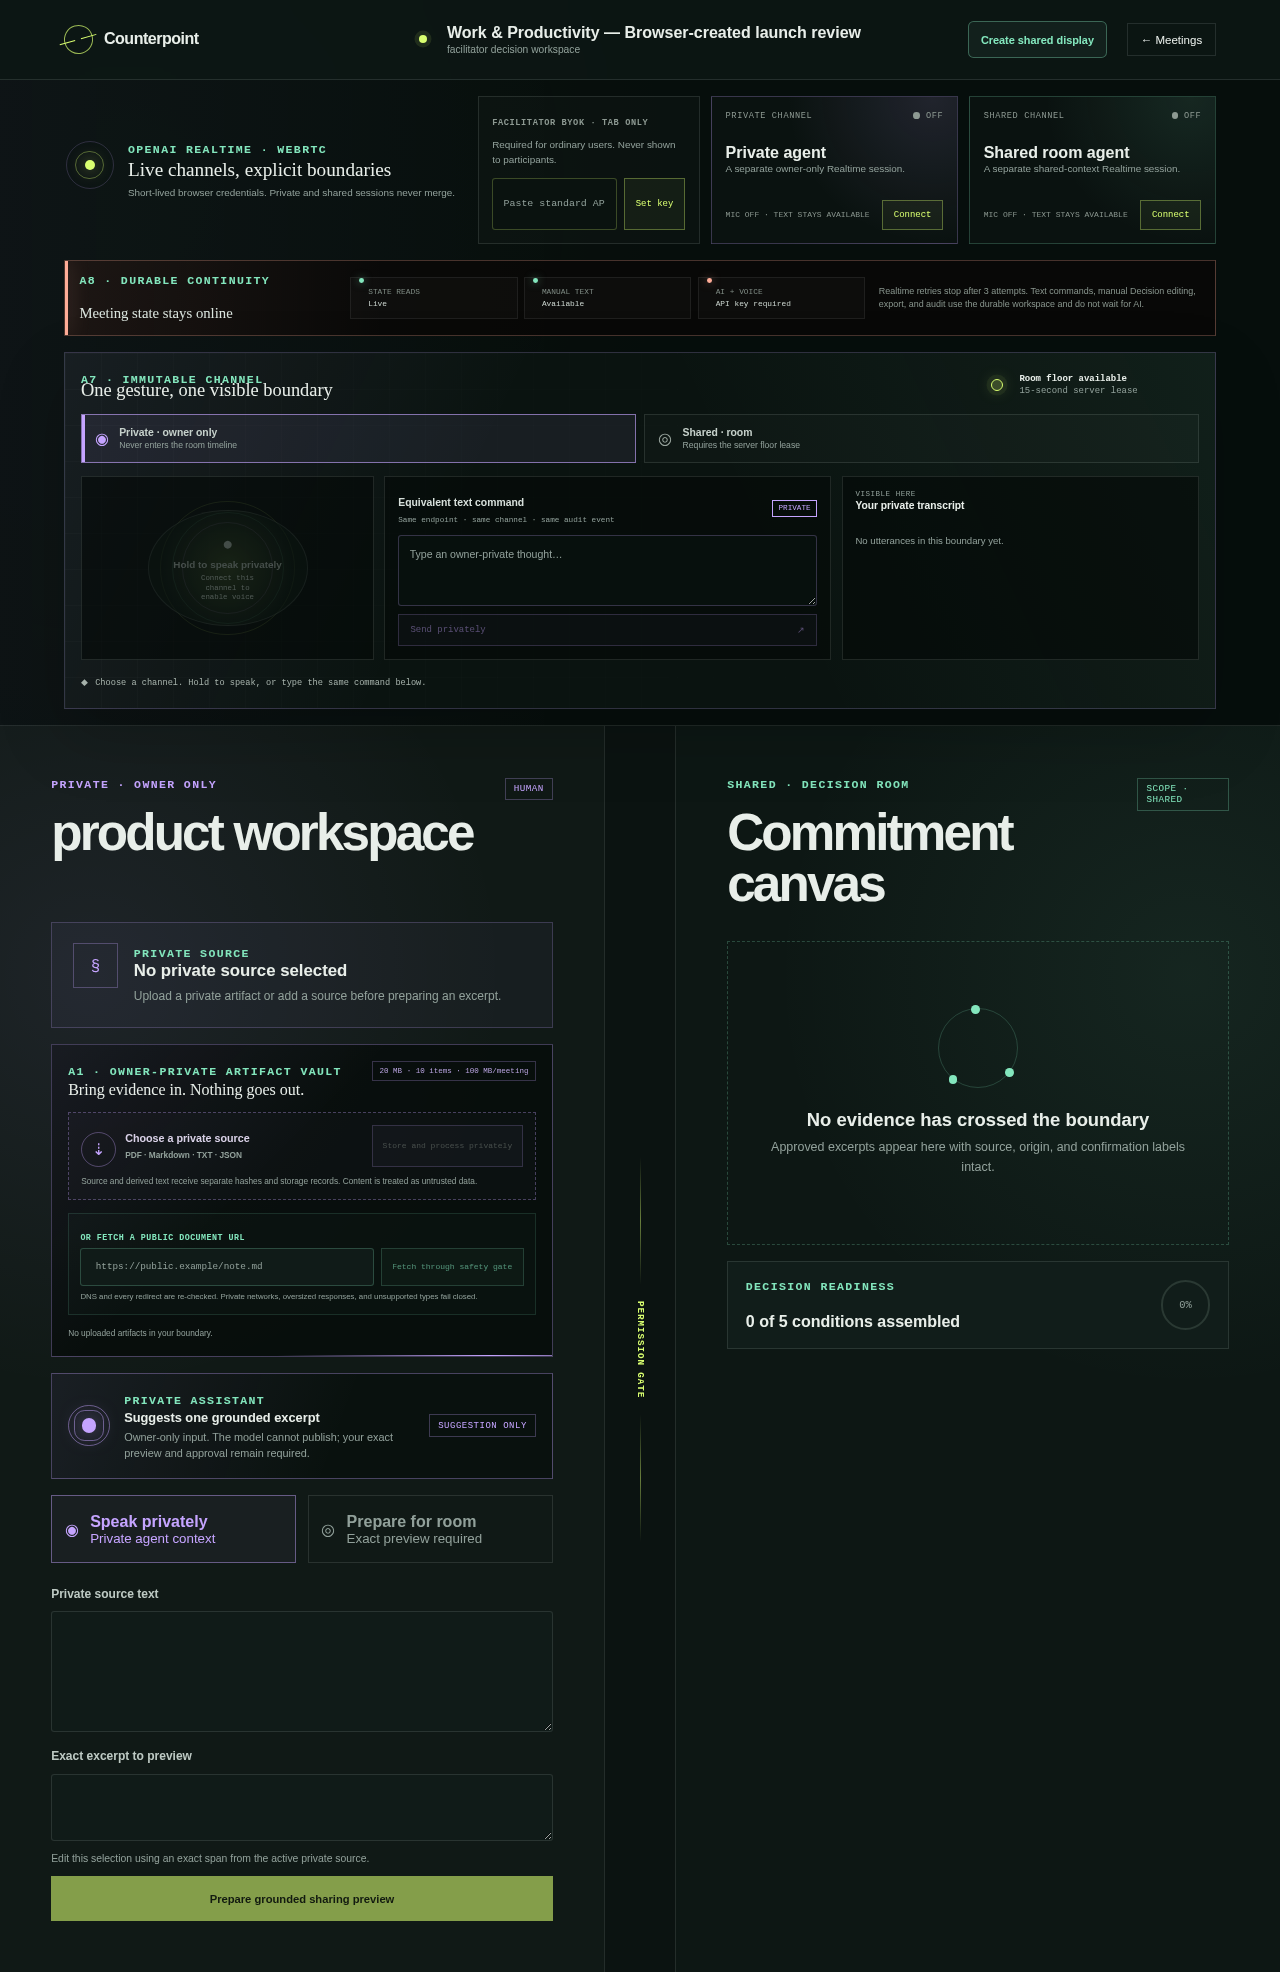
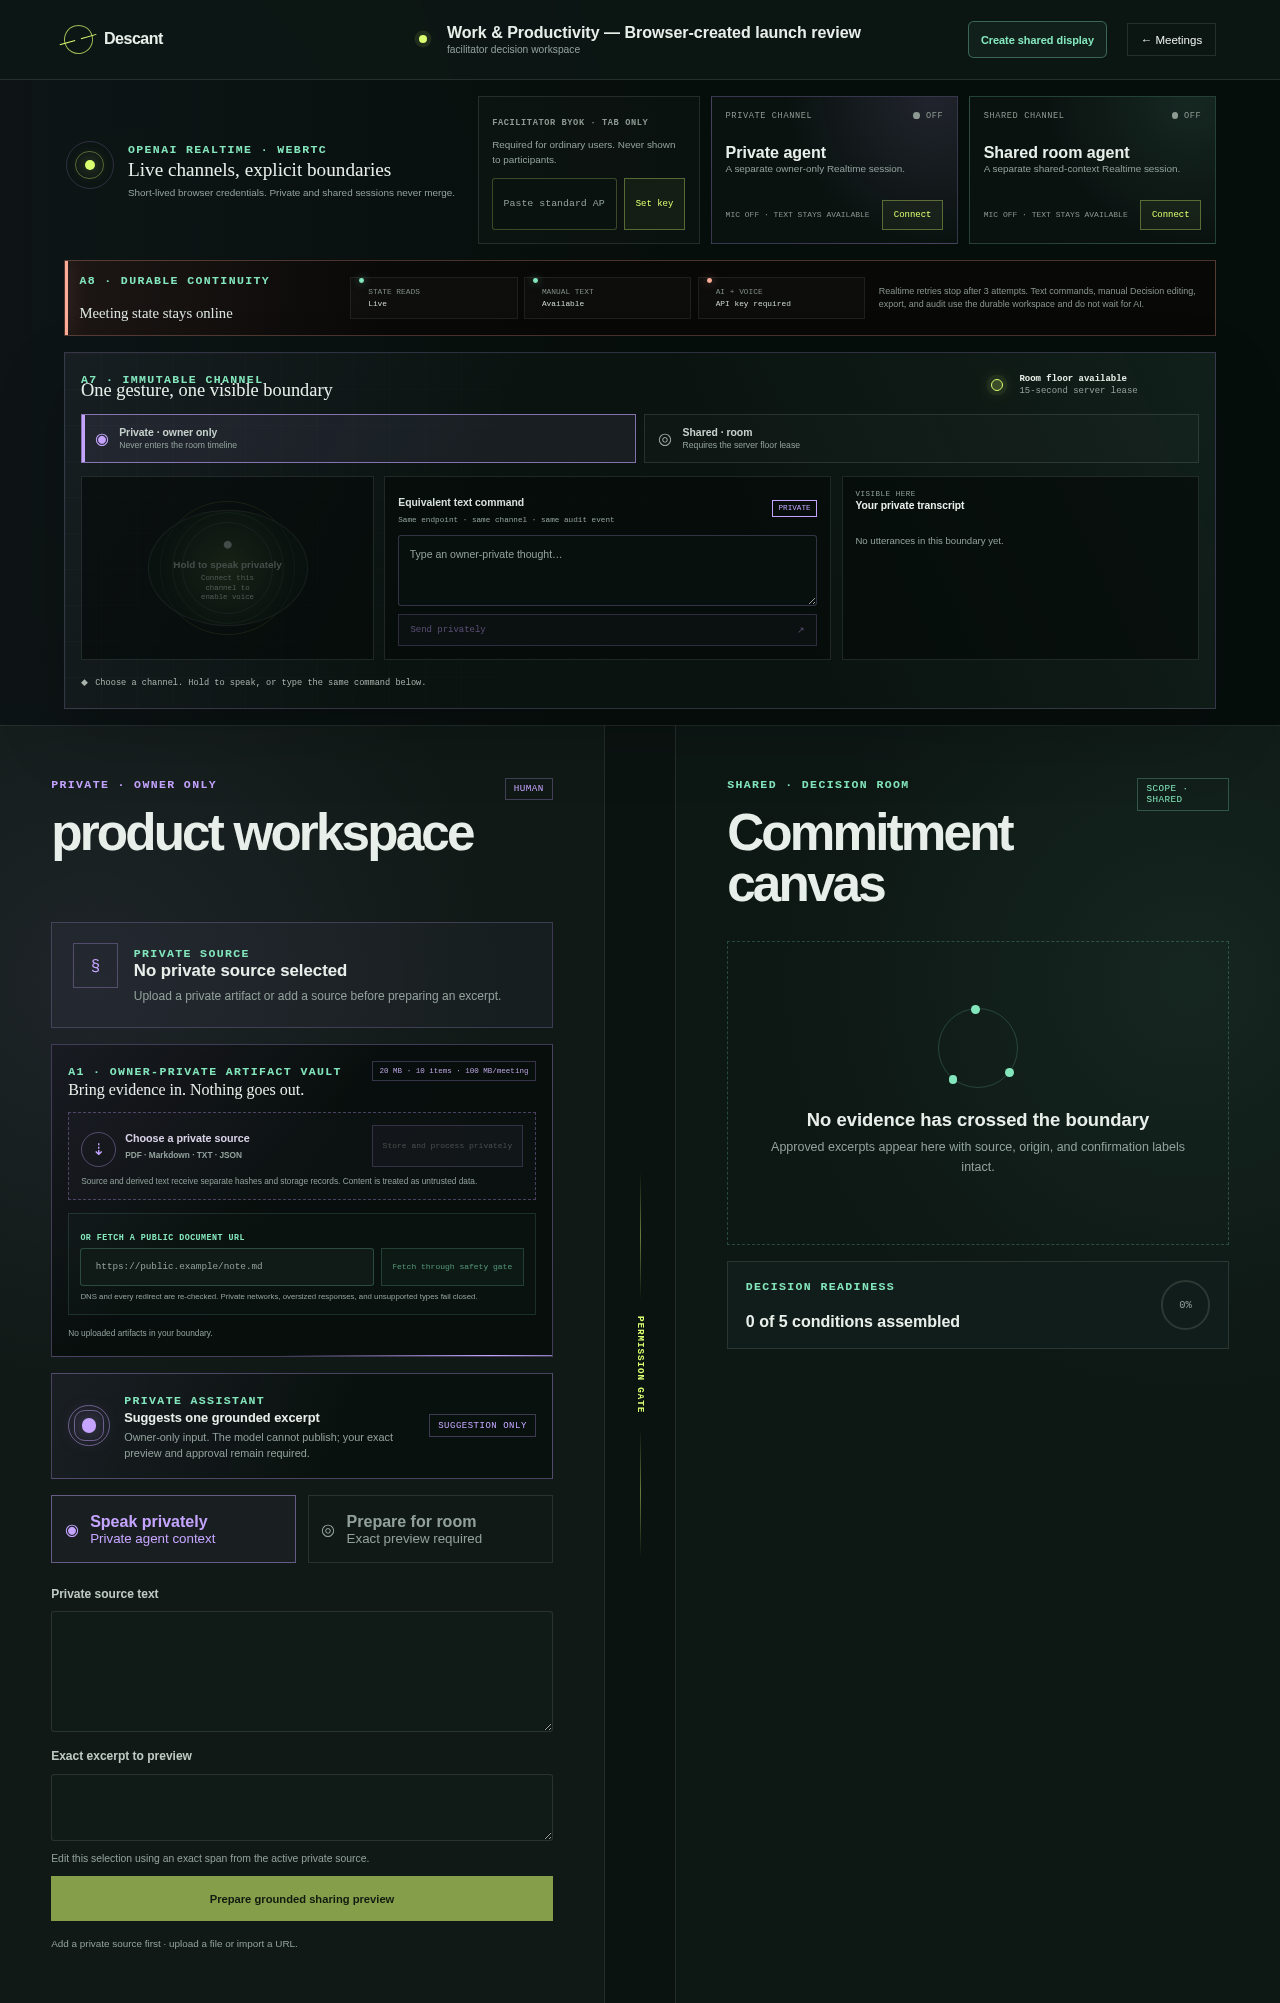
feat: explain disabled sharing actions

diff --git a/apps/web/src/app.tsx b/apps/web/src/app.tsx
@@ -3419,14 +3419,31 @@ function WorkspaceShell({
               source.
             </small>
             {phase === "idle" ? (
-              <button
-                className="prepare-button"
-                disabled={uploadedPrivateSource === undefined && !isFlagship}
-                onClick={() => void preparePreview("ai_preferred")}
-                type="button"
-              >
-                Prepare grounded sharing preview
-              </button>
+              <>
+                <button
+                  aria-describedby={
+                    uploadedPrivateSource === undefined && !isFlagship
+                      ? "prepare-preview-hint"
+                      : undefined
+                  }
+                  className="prepare-button"
+                  disabled={uploadedPrivateSource === undefined && !isFlagship}
+                  onClick={() => void preparePreview("ai_preferred")}
+                  title={
+                    uploadedPrivateSource === undefined && !isFlagship
+                      ? "Select a private source before preparing an excerpt."
+                      : undefined
+                  }
+                  type="button"
+                >
+                  Prepare grounded sharing preview
+                </button>
+                {uploadedPrivateSource === undefined && !isFlagship ? (
+                  <small className="action-hint" id="prepare-preview-hint">
+                    Add a private source first · upload a file or import a URL.
+                  </small>
+                ) : null}
+              </>
             ) : null}
             {phase === "preparing" ? (
               <button disabled type="button">

diff --git a/tests/e2e/meeting-creation.spec.ts b/tests/e2e/meeting-creation.spec.ts
@@ -85,9 +85,19 @@ test("facilitator creates a 3-person decision room from the browser", async ({
   ).toBeVisible();
   await expect(page.getByText("Regional launch readiness note")).toHaveCount(0);
   await expect(page.getByText("Synthetic launch decision")).toHaveCount(0);
+  const preparePreview = page.getByRole("button", {
+    name: "Prepare grounded sharing preview",
+  });
+  await expect(preparePreview).toBeDisabled();
+  await expect(preparePreview).toHaveAttribute(
+    "aria-describedby",
+    "prepare-preview-hint",
+  );
   await expect(
-    page.getByRole("button", { name: "Prepare grounded sharing preview" }),
-  ).toBeDisabled();
+    page.getByText(
+      "Add a private source first · upload a file or import a URL.",
+    ),
+  ).toBeVisible();
   await page.screenshot({
     animations: "disabled",
     fullPage: true,

diff --git a/apps/web/src/styles.css b/apps/web/src/styles.css
@@ -2373,6 +2373,14 @@ button:disabled {
   line-height: 1.45;
 }
 
+.action-hint {
+  display: block;
+  margin-top: 0.35rem;
+  color: var(--muted);
+  font-size: 0.62rem;
+  line-height: 1.45;
+}
+
 .disclosure-preview,
 .private-confirmation {
   margin-top: 1rem;

diff --git a/apps/worker/src/preview-demo-invalidation.ts b/apps/worker/src/preview-demo-invalidation.ts
@@ -15,7 +15,7 @@ export const PREVIEW_DEMO_INVALIDATION_MODEL = "staged-demo-rule-v1";
  */
 export function createPreviewDemoInvalidationEvaluator(): ConcreteAssumptionInvalidationEvaluator {
   return {
-    async evaluate(
+    evaluate(
       input: AssumptionInvalidationEvaluationInput,
     ): Promise<AssumptionInvalidationEvaluation> {
       const action = input.actions[0];
@@ -42,7 +42,7 @@ export function createPreviewDemoInvalidationEvaluator(): ConcreteAssumptionInva
         reason:
           "The staged demo rule matches the synthetic event to the monitored rollout premise.",
       };
-      return {
+      return Promise.resolve({
         ai: {
           candidates: [suggestion],
           generatedAt: input.externalEvent.effectiveAt,
@@ -59,7 +59,7 @@ export function createPreviewDemoInvalidationEvaluator(): ConcreteAssumptionInva
           schemaVersion: "1",
         },
         suggestion,
-      };
+      });
     },
   };
 }

diff --git a/tests/e2e-cloudflare/worker-product-view.spec.ts b/tests/e2e-cloudflare/worker-product-view.spec.ts
@@ -173,7 +173,9 @@ test("Worker keeps ordinary, judge, and shared-display browser contexts separate
       { headers: ordinaryAuthorization },
     );
     expect(ordinaryProjection.status()).toBe(200);
-    const ordinaryProjectionBody = await ordinaryProjection.json();
+    const ordinaryProjectionBody = (await ordinaryProjection.json()) as {
+      privateWorkspace?: { sources?: unknown[] };
+    };
     expect(JSON.stringify(ordinaryProjectionBody)).not.toContain(privateText);
     expect(ordinaryProjectionBody).toMatchObject({
       privateWorkspace: { sources: [] },

diff --git a/tests/e2e-cloudflare/judge-structured-ai.spec.ts b/tests/e2e-cloudflare/judge-structured-ai.spec.ts
@@ -286,7 +286,7 @@ test("real Wrangler replays the provider-free staged rule and manual review arc 
   );
   expect(projectionResponse.status()).toBe(200);
   const projection = (await projectionResponse.json()) as {
-    shared?: { decisions?: Array<{ decisionId?: string }> };
+    shared?: { decisions?: { decisionId?: string }[] };
   };
   const decisionId = projection.shared?.decisions?.at(-1)?.decisionId;
   expect(decisionId).toEqual(expect.any(String));

diff --git a/docs/media/meeting-creation/notes.md b/docs/media/meeting-creation/notes.md
@@ -6,8 +6,7 @@ third-party media.
 | State | Viewport | Change proved |
 |---|---|---|
 | Create-room form ready | Desktop, 1440×900 | Facilitator selects a purpose and the minimum three fixed identities before creation. |
-| Generic room, no private source | Desktop, 1440×900 | A newly created meeting does not inherit the flagship story, seeded private note, guided progress rail, or demo-reset control. The sharing action remains disabled until the owner selects a private source. |
+| Generic room, no private source | Desktop, 1440×900 | A newly created meeting does not inherit the flagship story, seeded private note, guided progress rail, or demo-reset control. The sharing action remains disabled until the owner selects a private source, and the screen explains how to unblock it. |
 
-Capture date: 2026-07-20. Feature slice: Q2 product-claim and generic/flagship
-boundary closeout. The final commit identifier is recorded when this slice is
-committed.
+Capture date: 2026-07-21. Feature slice: generic-room disabled-action guidance.
+The screenshot is synthetic and is refreshed with the implementing commit.

diff --git a/docs/plans/impl/_status.md b/docs/plans/impl/_status.md
@@ -1081,6 +1081,11 @@ The canonical implementation-facing artifacts are:
   same-origin API access, and separate ordinary/judge/display contexts. This
   confirms path health but does not replace the pending first-time human
   rehearsal for the three-minute acceptance gate.
+- The generic-room empty state now explains why `Prepare grounded sharing
+  preview` is disabled and how to add a private source. The hint is exposed
+  through both visible text and `aria-describedby`/native tooltip, with updated
+  synthetic evidence and a passing meeting-creation browser test. The
+  Flagship path remains unchanged.
 
 ## Next executable slice
 